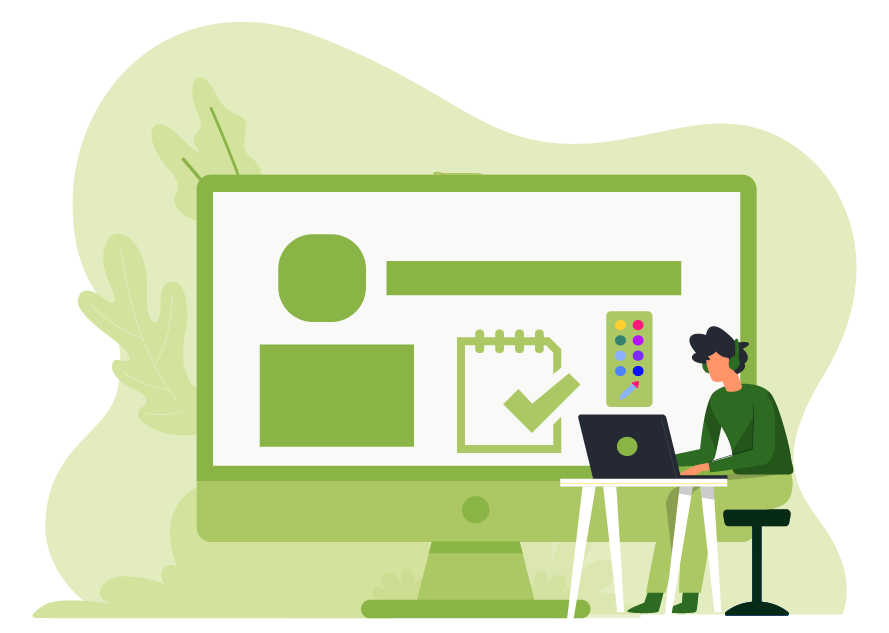
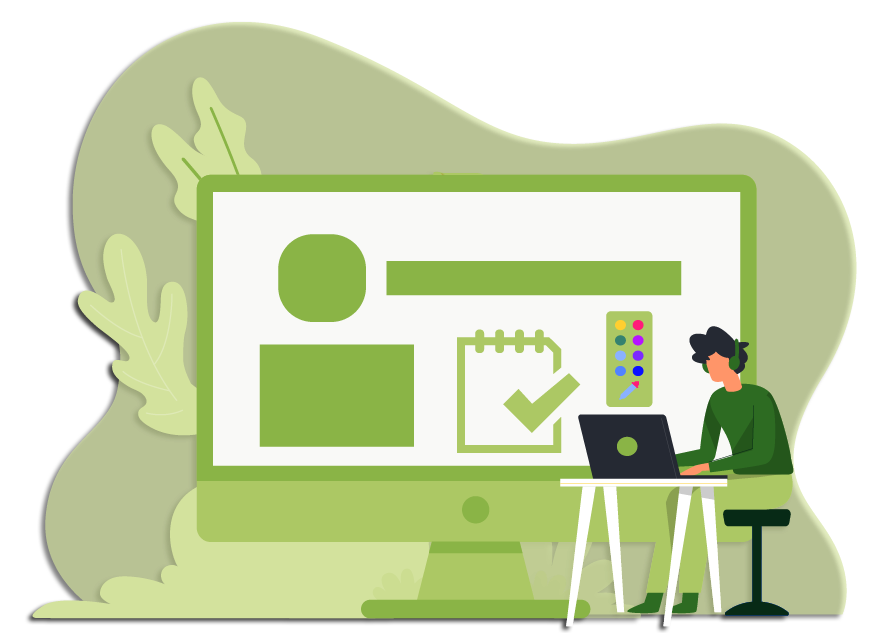
update terbaru

Changed region(s): [[0.0607, 0.03, 0.9719, 0.6904], [0.0304, 0.5403, 0.9719, 1.0]]

diff --git a/assets/css/style.css b/assets/css/style.css
@@ -120,6 +120,45 @@ nav a:hover {
     transform: translate(0, 20px);
   }
 }
+
+/* .one-text{
+  
+  text-transform: capitalize;
+  white-space: nowrap;
+  color: transparent !important;
+  position: absolute;
+  margin: auto;
+}
+.one-text::before{
+  content : "Selamat Datang";
+  position: absolute;
+  top: 0; 
+  left: 0;
+  width: 100%;
+  height: 100%;
+  color: white;
+  border-right: 3px solid black;
+  overflow: hidden;
+  animation: typeIt 4s steps(32);
+}
+.animation-one{
+  height: 3vh;
+}
+
+@keyframes typeIt{
+  0%{
+    width: 0%;
+  }
+
+  50%{
+    width: 50%;
+  }
+
+  100%{
+    width: 100%;
+  }
+}
+*/
 .three-text {
   text-align: center;
 }
@@ -138,7 +177,6 @@ nav a:hover {
   float: left;
   margin: 25vh 0 0 10vh;
   letter-spacing: 2px;
-  line-height: 20px;
   background-image: linear-gradient(109.7deg, rgb(60, 17, 128) 5.7%, rgba(52, 48, 132, 0.22) 92.4%);
   border-radius: 0px 10px 10px 0;
   padding: 15px;
@@ -231,6 +269,7 @@ figure.team-container img {
   border-radius: 0 0 0 29vh;
   color: white;
   padding-bottom: 2.5vh;
+  box-shadow:0 0 5px 2px #6a6a6a;
 }
 .card-flex-banner {
   height: 100%;
@@ -455,6 +494,7 @@ figure.team-container img {
   background-color: white;
   position: relative;
   border-radius: 6px 6px 6px 20px;
+  box-shadow: 0 0 15px 5px #484848;
 }
 
 .card-flex2 {
@@ -476,8 +516,8 @@ figure.team-container img {
   height: 100%;
   width: 100%;
   flex-basis: 50%;
+  box-shadow: 0 0 5px 1px #c8c8c8;
 }
-
 .card-logo {
   width: 100%;
   height: 40vh;
@@ -546,6 +586,23 @@ footer p a {
 }
 footer p a:hover {
   text-decoration: underline;
+}
+
+.image-sponsor img {
+  width: 30vh;
+}
+.image-sponsor a .dts {
+  margin-top: 40px;
+}
+.image-sponsor span {
+  margin: 0 20px;
+  display: inline-block;
+  position: relative;
+  font-size: 5vh;
+}
+.last-header {
+  border-bottom: 3px solid #2da2ce;
+  display: inline;
 }
 
 /* untuk tampilan hp */
@@ -634,7 +691,9 @@ button[id='menu']:hover {
     float: unset;
     width: 100%;
   }
-
+.one-text::before{
+  left: 55%;
+}
   .image-banner > img {
     width: 50%;
   }
@@ -771,5 +830,10 @@ button[id='menu']:hover {
   }
   .caption-title p {
     font-size: 0.64em;
+  }
+  .image-sponsor img {
+    display: block;
+    width: 35vw;
+    margin: 0 auto;
   }
 }

diff --git a/index.html b/index.html
@@ -3,7 +3,7 @@
   <head>
     <meta charset="UTF-8" />
     <meta name="viewport" content="width=device-width, initial-scale=1.0" />
-    <title>Tugas Submission</title>
+    <title>Tugas Proyek H64</title>
     <link rel="stylesheet" type="text/css" href="assets/css/style.css" />
     <link rel="shortcut icon" type="image/png" href="assets/img/favicon.png" />
     <link rel="stylesheet" type="text/css" href="assets/css/font-awesome.min.css" />
@@ -34,7 +34,7 @@
       <div id="begin"></div>
       <div class="container-banner">
         <div class="text-banner">
-          <h1 class="one-text">Selamat Datang!</h1>
+          <h1 class="one-text">Selamat Datang</h1>
           <h1 class="two-text">Kami Team H64</h1>
           <hr />
           <h1 class="three-text">DTS x Progate</h1>
@@ -203,6 +203,18 @@
                 developer melakukan coding dari awal.
               </p>
             </div>
+          </div>
+        </div>
+      </div>
+      <div class="container header">
+        <div class="center">
+          <h2 class="header-quention last-header">INFO LEBIH LANJUT</h2>
+          <div class="image-sponsor">
+            <a href="https://digitalent.kominfo.go.id/"
+              ><img class="dts" src="assets/img/logo-dts.png"
+            /></a>
+            <span>X</span>
+            <a href="https://progate.com/"><img src="assets/img/logo-progate.svg" /></a>
           </div>
         </div>
       </div>
